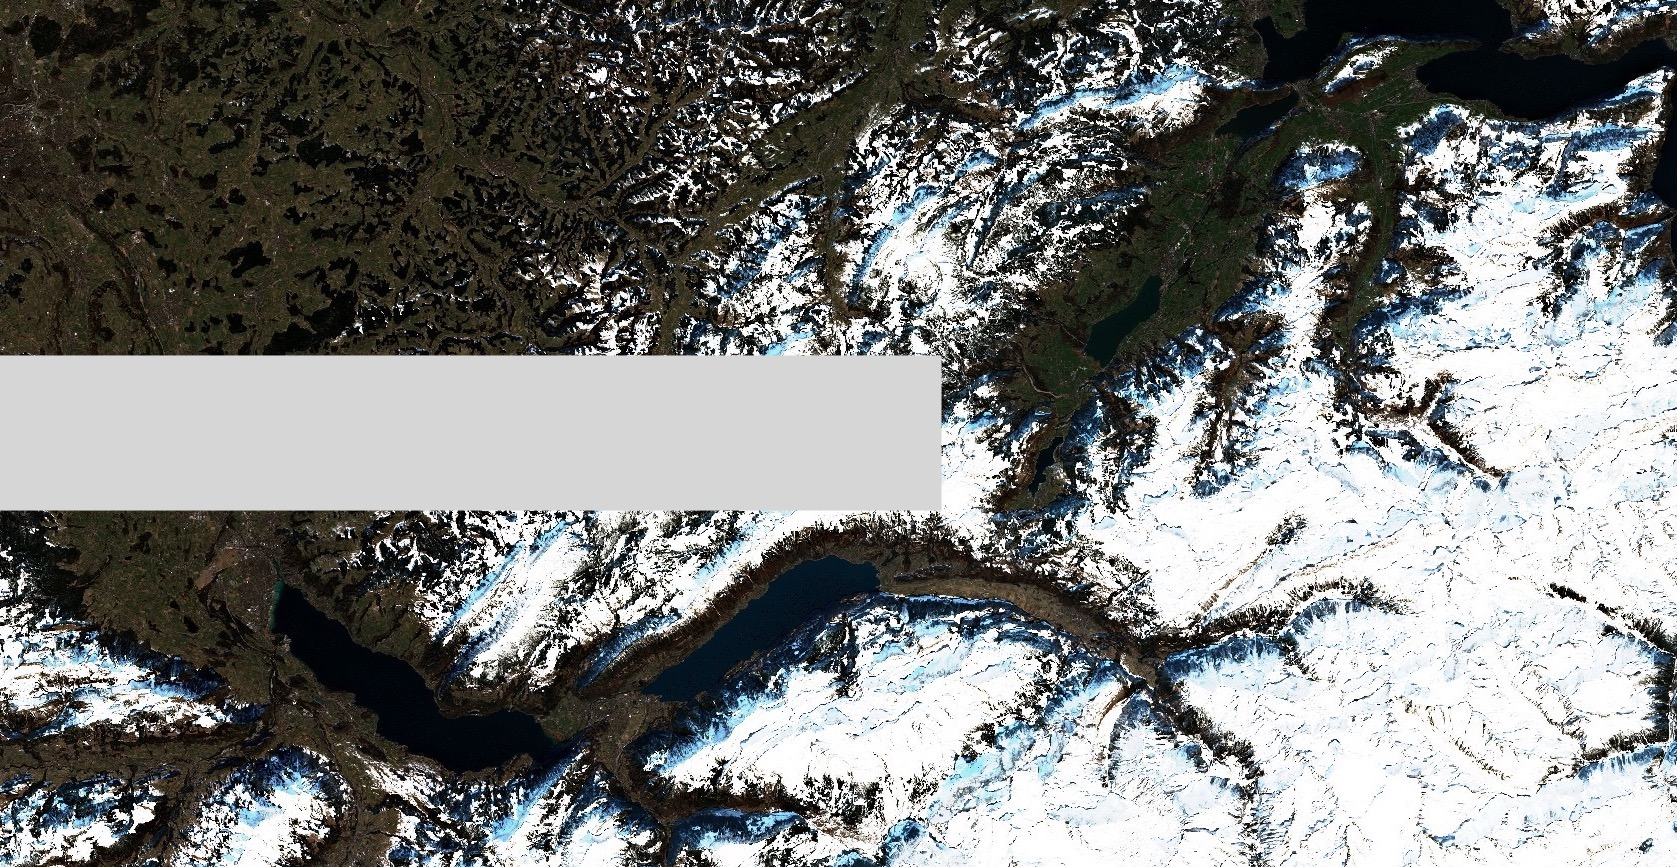
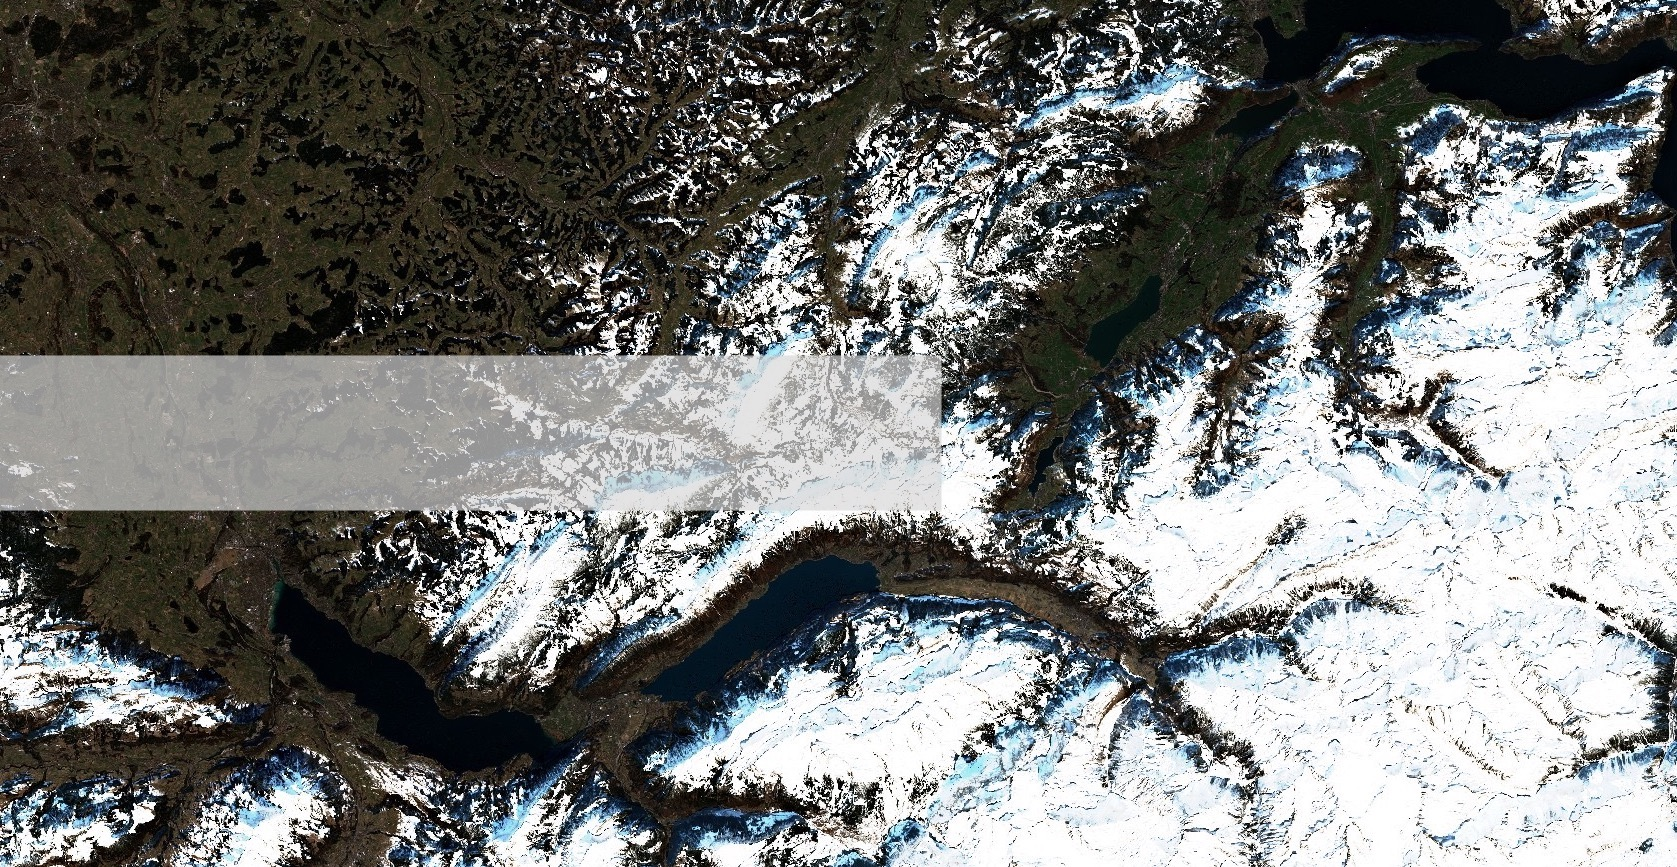
* up

Changed region(s): [[0.0, 0.4048, 0.5581, 0.5917]]

diff --git a/index.html b/index.html
@@ -4,7 +4,7 @@
 
 layout: home
 title: 
-banner: "/assets/images/banners/central_switzerland_s2.jpg"
+banner: "/assets/images/banners/central_switzerland_s2_gray.jpg"
 ---
 
 
